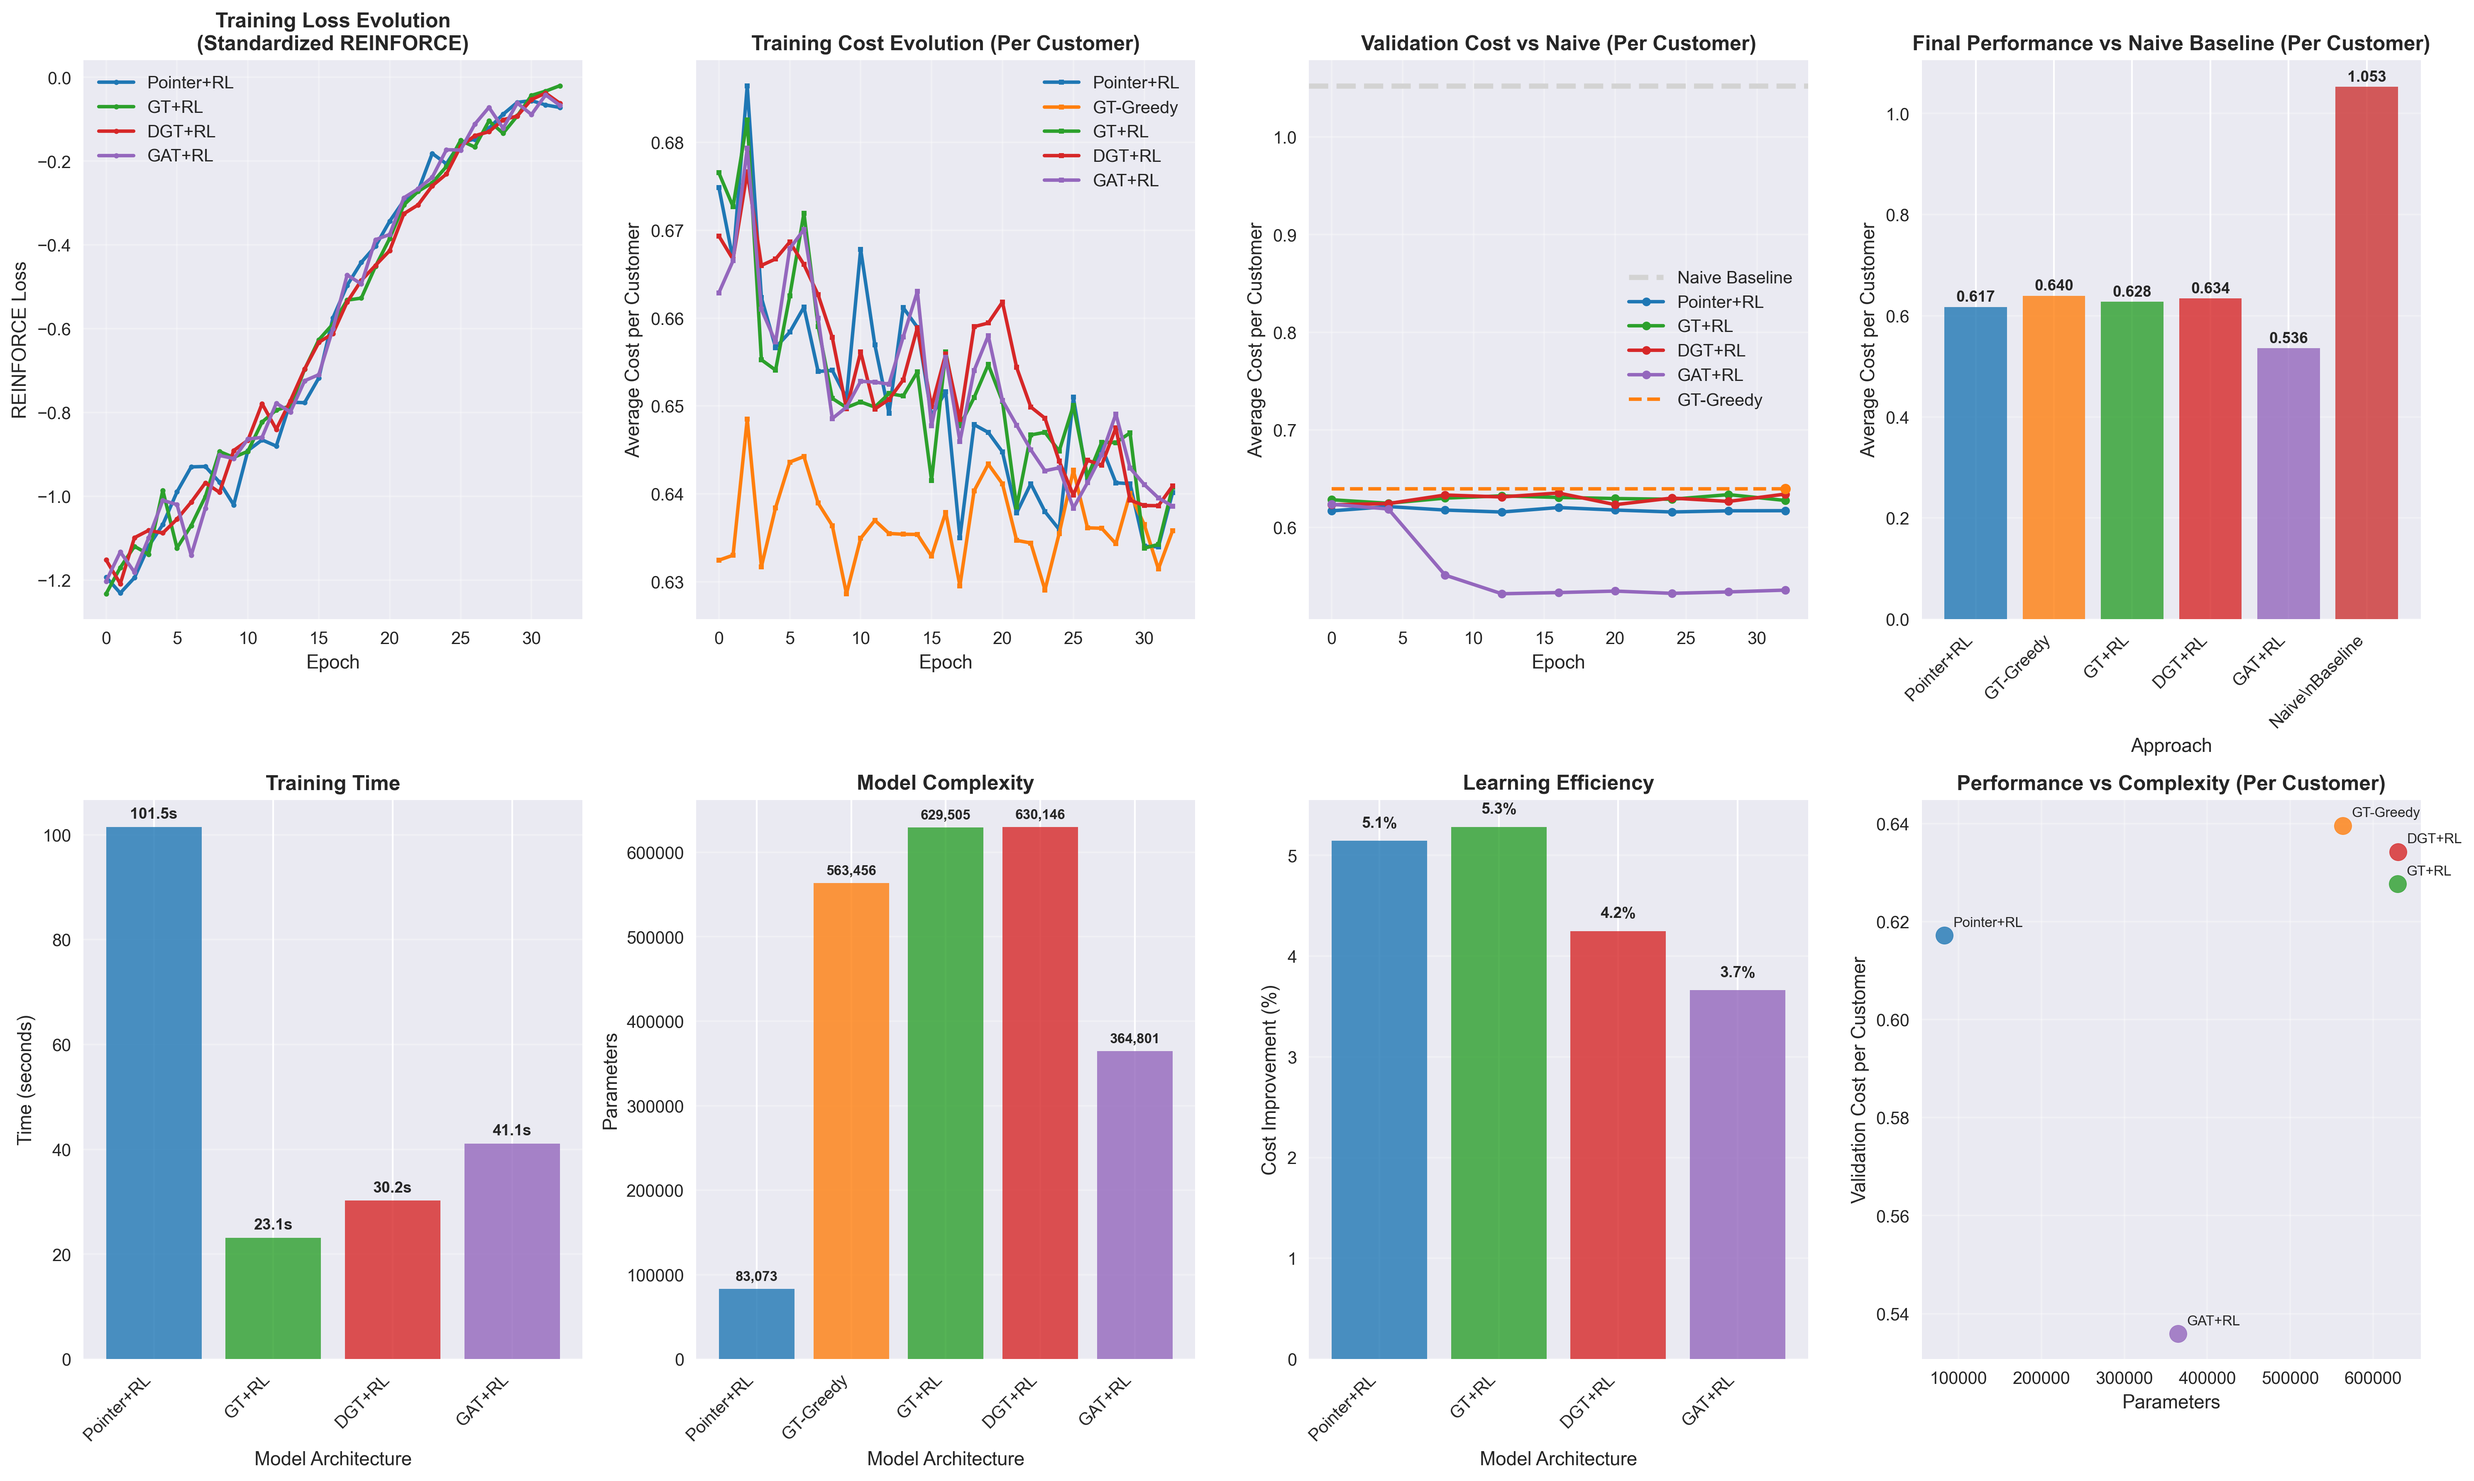
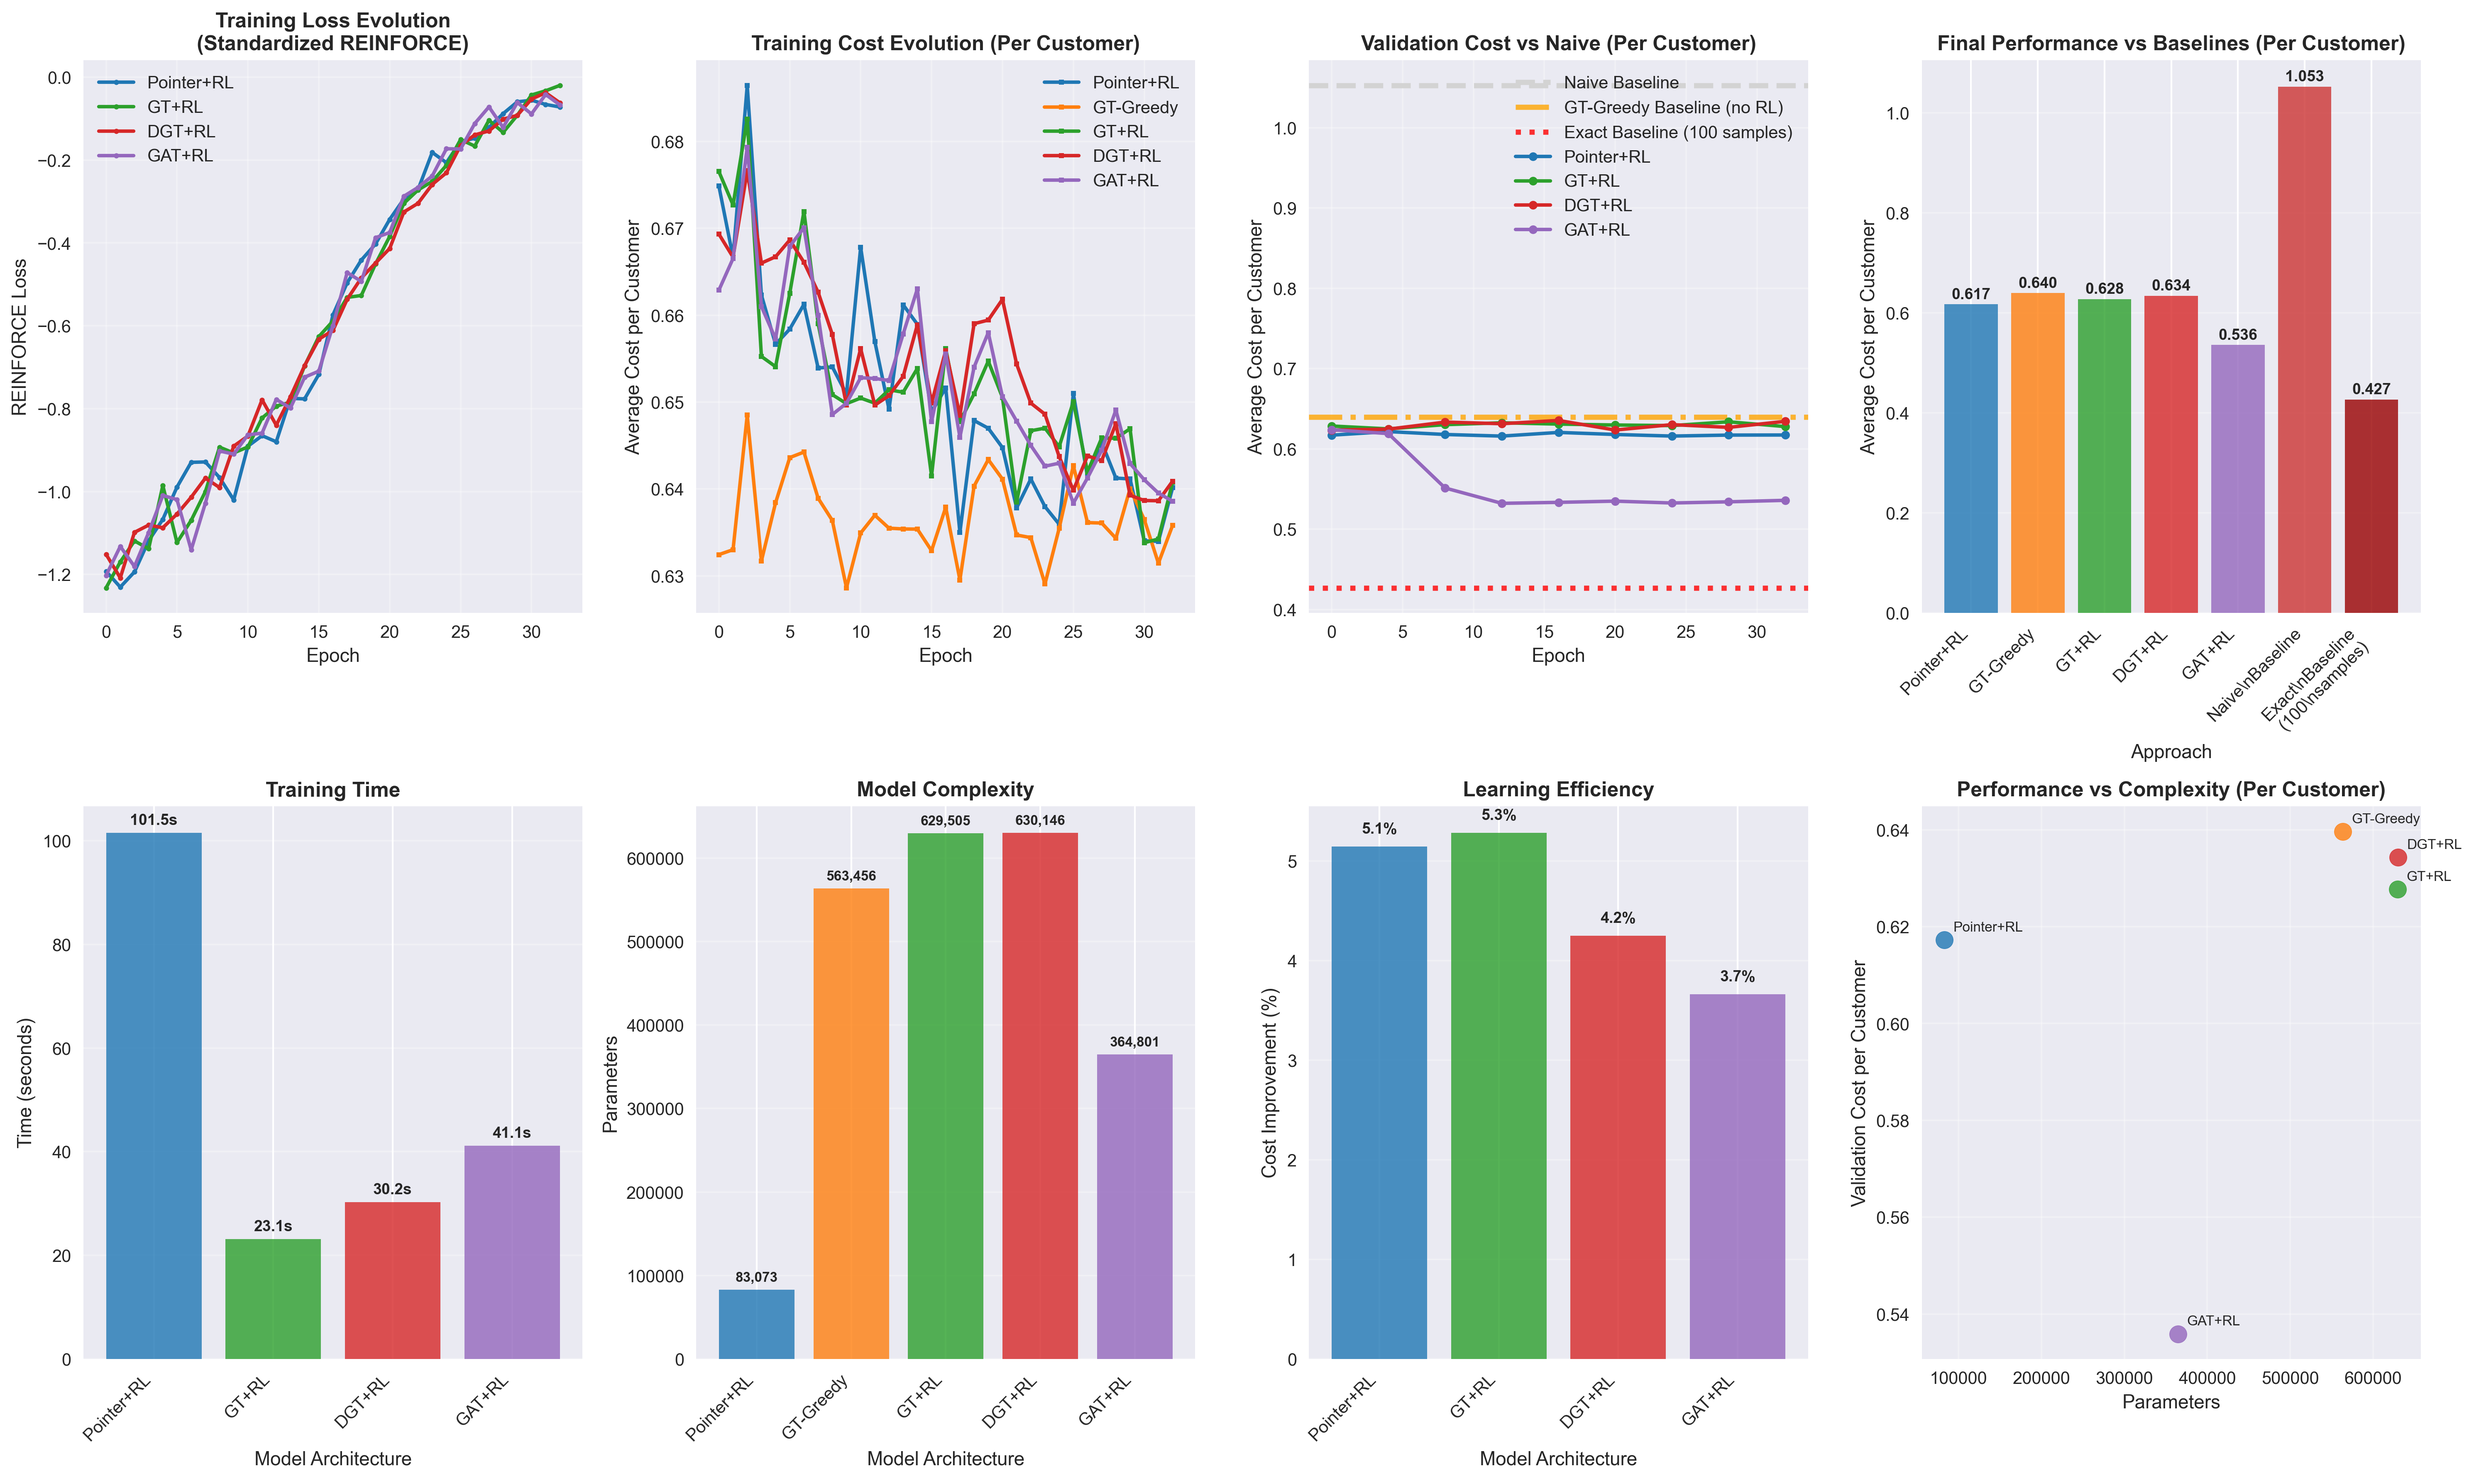
2025-08-14--004

diff --git a/make_comparative_plot.py b/make_comparative_plot.py
@@ -423,28 +423,32 @@ def create_comparison_plots(results, training_times, model_params, config, scale
     baseline_label = 'Naive Baseline (with penalty)' if penalty_active else 'Naive Baseline'
     ax3.axhline(y=naive_normalized, color='lightgray', linewidth=3, linestyle='--', label=baseline_label)
     
+    # Add GT-Greedy baseline (greedy attention without RL training)
+    if 'GT-Greedy' in results:
+        result = results['GT-Greedy']
+        if 'history' in result:
+            gg_val = result['history'].get('final_val_cost', None)
+        else:
+            gg_val = result.get('final_val_cost', None)
+        
+        if gg_val is not None:
+            ax3.axhline(y=gg_val, color='orange', linewidth=3, linestyle='-.', 
+                       label='GT-Greedy Baseline (no RL)', alpha=0.8)
+    
     # Add exact baseline if available
     if exact_normalized is not None:
         ax3.axhline(y=exact_normalized, color='red', linewidth=3, linestyle=':', 
                    label=f'Exact Baseline ({exact_baseline_stats["num_solved"]} samples)', alpha=0.8)
 
-    # Plot model validation series; handle GT-Greedy specially (no training/validation curve)
+    # Plot RL model validation series only
     for model_name in model_names:
         if model_name == 'GT-Greedy':
-            continue  # handle after loop
+            continue  # GT-Greedy now shown as baseline
         series = csv_series.get(model_name)
         if series and series['val_costs']:
             xs = series['val_epochs']
             ys = series['val_costs']
             ax3.plot(xs, ys, 'o-', label=model_name, linewidth=2, markersize=5, color=color_map[model_name])
-
-    # GT-Greedy: draw a dashed horizontal line at its final validation cost and a single point
-    if 'GT-Greedy' in results:
-        gg_val = results['GT-Greedy'].get('final_val_cost', None)
-        if gg_val is not None:
-            ax3.plot([0, num_epochs], [gg_val, gg_val], linestyle='--', linewidth=2, color=color_map['GT-Greedy'], label='GT-Greedy')
-            # Single marker at final epoch
-            ax3.plot([num_epochs], [gg_val], marker='o', markersize=6, color=color_map['GT-Greedy'])
 
     ax3.set_title('Validation Cost vs Naive (Per Customer)', fontsize=12, fontweight='bold')
     ax3.set_xlabel('Epoch')
